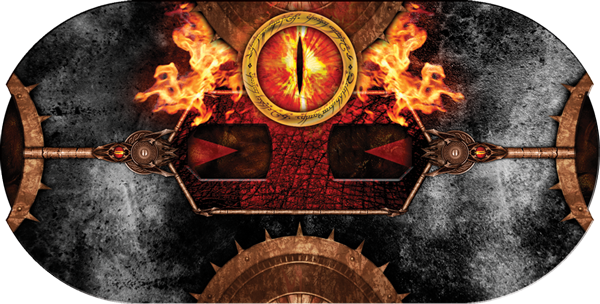
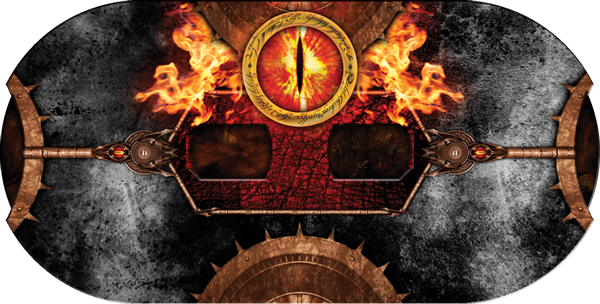
Threat dial pointers turn with their digits
The triangles are cut out of threat.png into threat-pointer.png and ride
on the wheels beside each digit; the wheels grow so neighbouring pointers
do not overlap.

Changed region(s): [[0.3, 0.4441, 0.39, 0.5625], [0.6, 0.4441, 0.69, 0.5625]]

diff --git a/frontend/src/components/ThreatDial.vue b/frontend/src/components/ThreatDial.vue
@@ -24,7 +24,10 @@ const digitAngle = (i: number, d: number) => (i === 0 ? 36 * d : 180 - 36 * d)
   <div class="threat" :class="{ danger: threat >= 40 }" role="img" :aria-label="`Threat ${threat}`">
     <div v-for="i in [0, 1]" :key="i" class="window" :class="i === 0 ? 'left' : 'right'" aria-hidden="true">
       <div class="wheel" :style="{ rotate: `${wheelAngle(i)}deg` }">
-        <span v-for="d in 10" :key="d" :style="{ '--a': `${digitAngle(i, d - 1)}deg` }">{{ d - 1 }}</span>
+        <template v-for="d in 10" :key="d">
+          <span :style="{ '--a': `${digitAngle(i, d - 1)}deg` }">{{ d - 1 }}</span>
+          <i :style="{ '--a': `${digitAngle(i, d - 1)}deg` }" />
+        </template>
       </div>
     </div>
   </div>
@@ -44,11 +47,12 @@ const digitAngle = (i: number, d: number) => (i === 0 ? 36 * d : 180 - 36 * d)
 }
 /* the two openings in threat.png (600px wide, so 6px = 1cqw) */
 .window { position: absolute; top: 21.3cqw; height: 8.2cqw; width: 16.5cqw; overflow: hidden; }
-.left { left: 30.3cqw; --cx: -3.8cqw; }
-.right { left: 53.3cqw; --cx: 20.2cqw; --flip: 180deg; }
-/* wheels sit outboard of the windows, their rims (digits 36° apart) rolling through them */
+.left { left: 30.3cqw; --cx: -7.83cqw; }
+.right { left: 53.3cqw; --cx: 24.17cqw; --flip: 180deg; }
+/* wheels sit outboard of the windows, their rims (digits 36° apart, each with a pointer inboard) rolling through them */
 .wheel {
-  --r: 16cqw;
+  --r: 20cqw;
+  --pointer-r: 13.17cqw;
   position: absolute;
   left: calc(var(--cx) - var(--r));
   top: calc(4.1cqw - var(--r));
@@ -72,5 +76,16 @@ const digitAngle = (i: number, d: number) => (i === 0 ? 36 * d : 180 - 36 * d)
   -webkit-text-fill-color: transparent;
 }
 .threat.danger .wheel span { background: linear-gradient(var(--threat-danger-light), var(--threat-red), var(--threat-dark)); background-clip: text; -webkit-background-clip: text; }
+/* the window's pointer, cut out of threat.png so it turns with its digit */
+.wheel i {
+  position: absolute;
+  left: 50%;
+  top: 50%;
+  width: 9.33cqw;
+  height: 5.67cqw;
+  margin: -2.83cqw -4.67cqw;
+  background: url('/images/threat-pointer.png') center / 100% 100%;
+  transform: rotate(var(--a)) translateX(var(--pointer-r));
+}
 @media (prefers-reduced-motion: reduce) { .wheel { transition: none; } }
 </style>
